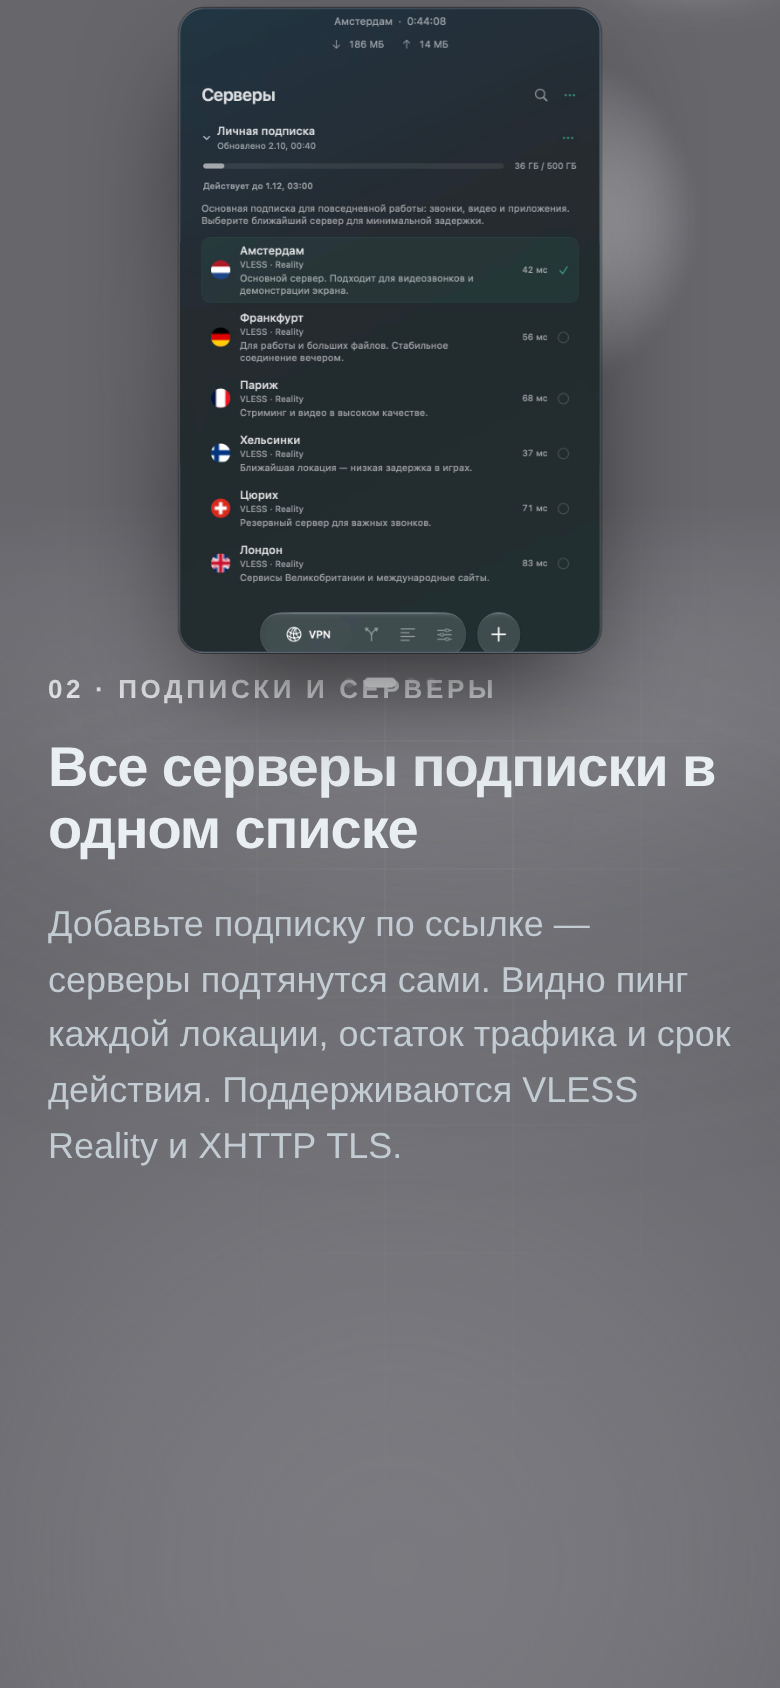
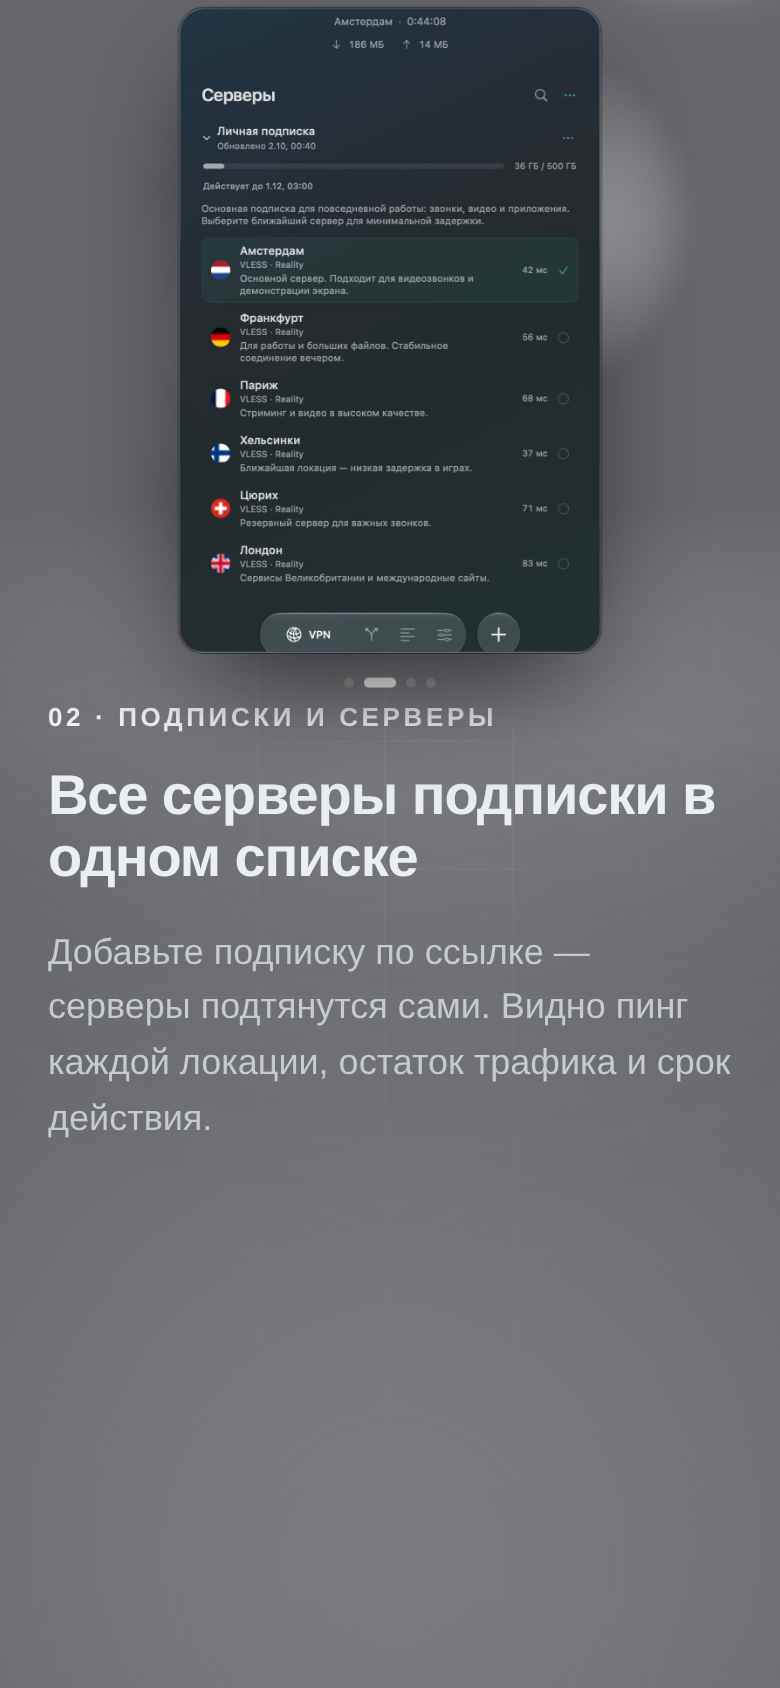
Nory landing: drop protocols sentence, fix traffic wording
Claude-Session: https://claude.ai/code/session_01U9z51qNmc1ZQZn17ozDYa4

Changed region(s): [[0.0615, 0.4005, 0.9231, 0.7085]]

diff --git a/nory/index.html b/nory/index.html
@@ -86,12 +86,12 @@
       <div class="step" data-i="0">
         <span class="kicker">01 · Подключение</span>
         <h2>Одна кнопка — и вы под защитой</h2>
-        <p>Включайте VPN одним нажатием. Скорость соединения, время сессии и трафик всегда перед глазами.</p>
+        <p>Включайте VPN одним нажатием. Время сессии и объём трафика, прошедшего через VPN, всегда перед глазами.</p>
       </div>
       <div class="step" data-i="1">
         <span class="kicker">02 · Подписки и серверы</span>
         <h2>Все серверы подписки в одном списке</h2>
-        <p>Добавьте подписку по ссылке — серверы подтянутся сами. Видно пинг каждой локации, остаток трафика и срок действия. Поддерживаются VLESS Reality и XHTTP&nbsp;TLS.</p>
+        <p>Добавьте подписку по ссылке — серверы подтянутся сами. Видно пинг каждой локации, остаток трафика и срок действия.</p>
       </div>
       <div class="step" data-i="2">
         <span class="kicker">03 · Умный обход</span>
